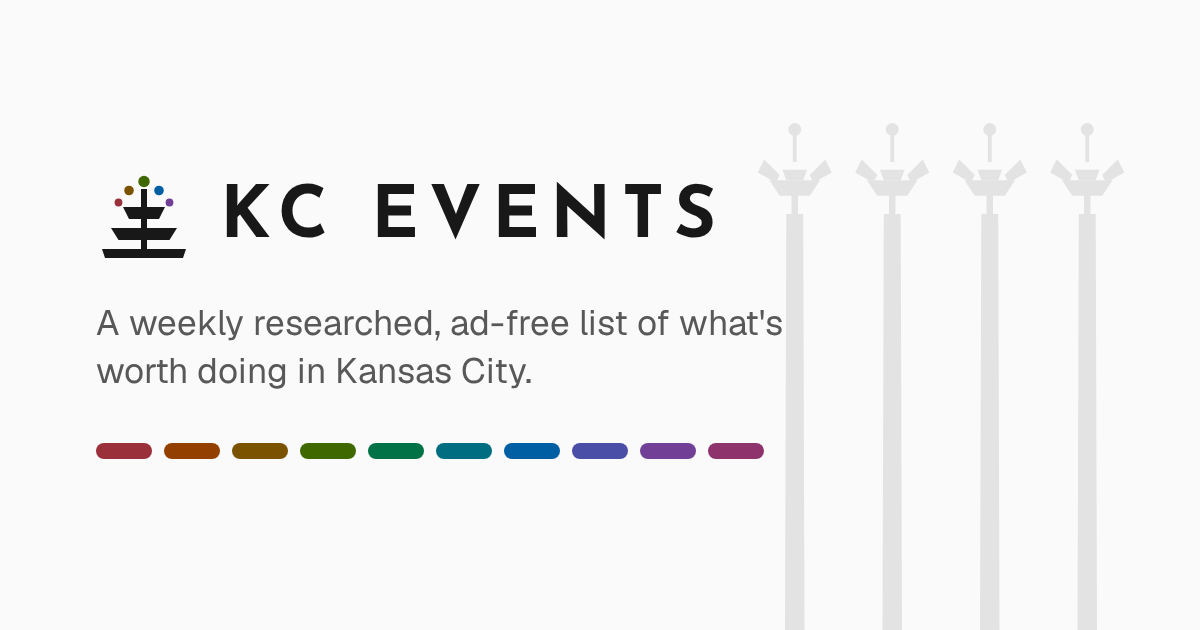
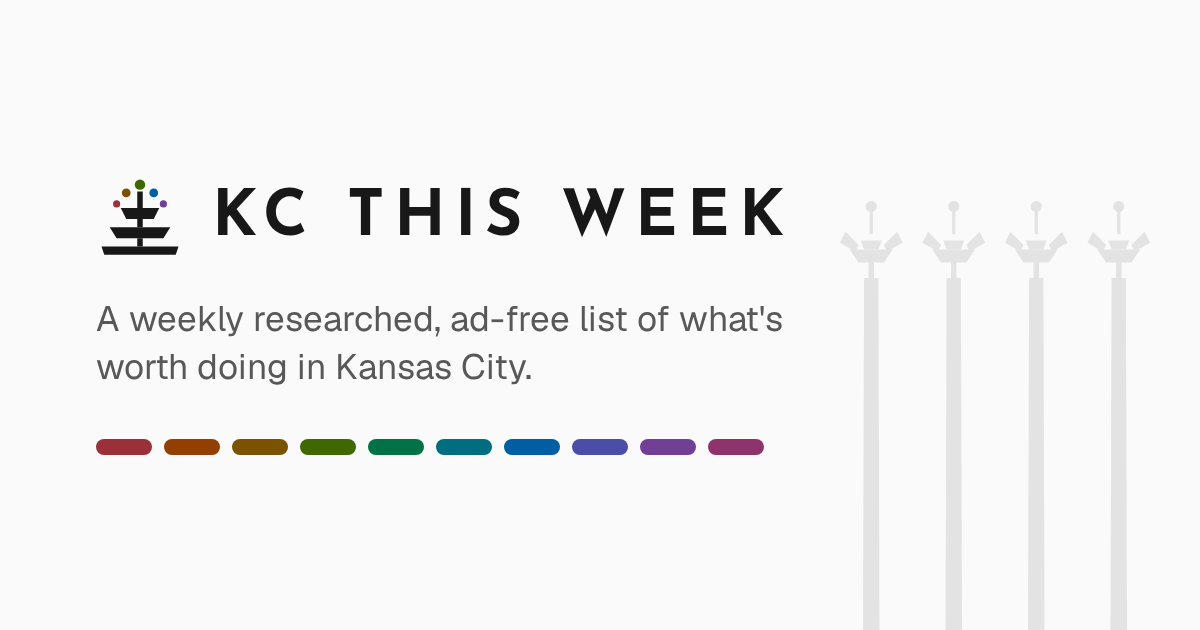
The site is KC This Week, at kcthisweek.com

Changed region(s): [[0.0925, 0.2714, 0.6475, 0.4222], [0.0617, 0.4825, 0.6475, 0.6333], [0.0617, 0.6937, 0.6475, 0.754]]

diff --git a/site/scripts/share-image.html b/site/scripts/share-image.html
@@ -3,7 +3,7 @@
 <html lang="en">
   <head>
     <meta charset="utf-8" />
-    <title>KC Events share image</title>
+    <title>KC This Week share image</title>
     <style>
       @font-face {
         font-family: "Geist Variable";
@@ -30,8 +30,8 @@
         -webkit-font-smoothing: antialiased;
       }
       /* The name as the header sets it: the fountain mark, then tracked capitals in the display face. */
-      h1 { margin: 0; display: flex; align-items: center; gap: 28px; font-family: "Josefin Sans", sans-serif; font-size: 72px; font-weight: 700; text-transform: uppercase; letter-spacing: 0.14em; line-height: 1; }
-      h1 svg { width: 96px; height: 96px; flex: none; }
+      h1 { margin: 0; display: flex; align-items: center; gap: 28px; font-family: "Josefin Sans", sans-serif; font-size: 64px; font-weight: 700; text-transform: uppercase; letter-spacing: 0.14em; line-height: 1; }
+      h1 svg { width: 88px; height: 88px; flex: none; }
       /* The drops in five of the kinds, as the header colours them. */
       h1 .drop-1 { fill: oklch(0.47 0.14 20); } h1 .drop-2 { fill: oklch(0.47 0.14 88); } h1 .drop-3 { fill: oklch(0.47 0.14 130); }
       h1 .drop-4 { fill: oklch(0.47 0.14 245); } h1 .drop-5 { fill: oklch(0.47 0.14 308); }
@@ -40,11 +40,11 @@
       .kinds span { width: 56px; height: 16px; border-radius: 8px; }
       p { margin: 32px 0 0; max-width: 20em; font-size: calc(var(--text-xl) * 1.6); line-height: 1.35; color: var(--fg-muted); }
       /* Bartle Hall's pylons, behind the text at the right, rising from the bottom edge. */
-      .skyline { position: absolute; right: 64px; bottom: 0; width: 390px; height: 520px; color: var(--rule); }
+      .skyline { position: absolute; right: 40px; bottom: 0; width: 330px; height: 440px; color: var(--rule); }
     </style>
   </head>
   <body>
-    <h1><span id="mark"></span>KC Events</h1>
+    <h1><span id="mark"></span>KC This Week</h1>
     <p id="tagline"></p>
     <div class="kinds" aria-hidden="true">
       <span style="background: oklch(0.47 0.14 20)"></span><span style="background: oklch(0.47 0.14 56)"></span>

diff --git a/site/test/explorer-export.test.ts b/site/test/explorer-export.test.ts
@@ -34,7 +34,7 @@ describe("export this view", () => {
     await fireEvent.click(screen.getByRole("button", { name: "Export this view" }));
     expect(downloadText).toHaveBeenCalledTimes(1);
     const [name, text, mime] = vi.mocked(downloadText).mock.calls[0]!;
-    expect(name).toBe("kc-events.ics");
+    expect(name).toBe("kc-this-week.ics");
     expect(mime).toBe("text/calendar");
     expect(text).toContain("SUMMARY:Friday jazz");
     expect(text).not.toContain("Trivia");

diff --git a/site/src/components/Explorer.svelte b/site/src/components/Explorer.svelte
@@ -100,7 +100,7 @@
 
   function exportView() {
     // new Date() is fine here: this is a component, not lib/ (the no-clock grep covers lib only).
-    downloadText("kc-events.ics", toIcs(exportable, { siteName: siteConfig.name, stamp: new Date().toISOString() }), "text/calendar");
+    downloadText("kc-this-week.ics", toIcs(exportable, { siteName: siteConfig.name, stamp: new Date().toISOString() }), "text/calendar");
   }
 </script>
 

diff --git a/site/src/site.config.ts b/site/src/site.config.ts
@@ -4,7 +4,7 @@
  * The canonical origin is build-only, in src/build/origin.ts.
  */
 export const siteConfig = {
-  name: "KC Events",
+  name: "KC This Week",
   tagline: "A weekly researched, ad-free list of what's worth doing in Kansas City.",
   repoUrl: "https://github.com/WrongerSandwich/kc-events",
   /** Days after the last successful run before every page shows the staleness banner. */

diff --git a/docs/superpowers/specs/2026-10-04-public-site-design.md b/docs/superpowers/specs/2026-10-04-public-site-design.md
@@ -29,7 +29,7 @@ Vocabulary is `CONTEXT.md`'s: *don't-miss list*, *always there*, *horizon*, *met
 - **No event images.** Legal exposure and the thing that makes aggregators look like aggregators. The visual identity comes from type and color. The one image the site has is a single site-wide typographic share card (section 7), generated once, so links unfurl without looking broken.
 - **No venue pages, no kind landing pages.** Candidates for v1.1; the explorer's URL state covers both cases for now.
 - **No daily rebuild.** The site is rebuilt when the weekly run commits; client-side logic keeps the day-dependent parts correct between builds (sections 4, 7, 8). A deploy hook on a daily cron is a cheap follow-up if the no-JS HTML going a week stale ever matters.
-- **No naming decision.** The site name is a single config value and ships as "KC Events" at a Vercel subdomain; a name and domain are a separate call.
+- **Naming.** The site name is a single config value. It shipped as "KC Events" at a Vercel subdomain; on 2026-10-07 it became "KC This Week" at kcthisweek.com (#61).
 
 ## 3. Architecture
 
@@ -65,7 +65,7 @@ data/events.json  (committed by the weekly run)
 
 **Build fails loudly, deploy keeps the last good site.** Any parse failure, a schema version mismatch, a dataset with `lastSuccessfulRun: null`, an id collision among active events, or a projected payload over 400 KB raw throws during `astro build`. Vercel then keeps the previous deployment live. The weekly workflow already commits nothing on a failed run, so the two failure modes compose: a bad run leaves the old data, a bad build leaves the old site.
 
-**Production.** The site is live at https://kc-events-lime.vercel.app (Vercel project `kc-events`, first deployed 2026-10-05 from 05345fa). Vercel Authentication is off so the production URL is public, and the monorepo "skip when no changes" switch is off so the ignored build step below is the only skip rule.
+**Production.** The site is live at https://kcthisweek.com (Vercel project `kc-events`, first deployed 2026-10-05 from 05345fa at https://kc-events-lime.vercel.app, which still serves; the custom domain was attached 2026-10-07). Vercel Authentication is off so the production URL is public, and the monorepo "skip when no changes" switch is off so the ignored build step below is the only skip rule.
 
 **Deploy trigger.** Vercel project settings: root directory `site`, framework Astro, "Include source files outside of the Root Directory" on, and the automatic "skip deployment when unaffected" switch for monorepos **off**: Vercel's own change detection follows declared workspace dependencies, and the site reaches the dataset by relative path, so the one commit that matters (the weekly `data/events.json` change) could be classified as unrelated and skipped, which would silently freeze the site. Instead an explicit *ignored build step* command, versioned as `ignoreCommand` in `site/vercel.json` so the dashboard needs no custom command (it uses the previous deployed SHA when Vercel provides one and falls back to `HEAD^`), runs inside `site/` and skips the build on exit 0, builds on exit 1:
 
@@ -77,7 +77,7 @@ so a run-report-only or docs-only commit does not rebuild. Ticket 1's acceptance
 
 A small `site-ci.yml` workflow runs `pnpm -r typecheck`, `pnpm --filter kc-events-site build`, a separate `pnpm --filter kc-events-site size` step, `pnpm -r test` (after the build, because the built-output tests read `dist/`), and the end-to-end suite (built into its own `dist-e2e/`) on pull requests and on pushes to `main`. Note what it guards: GitHub does not trigger workflows from pushes made with the default `GITHUB_TOKEN`, so the weekly research commit runs no CI; on that commit the build assertions run only inside Vercel's build, which is sufficient because that build is the one that would publish bad data.
 
-**Configuration.** `site/src/site.config.ts` holds the site-level values: `name` ("KC Events"), `tagline`, `repoUrl` (for the corrections link), `staleAfterDays` (9), and nothing about slugs; islands import it, so it reads no environment. The canonical origin for sitemap, JSON-LD, and share tags is build-only, in `site/src/build/origin.ts`: `SITE_ORIGIN` once a fixed production domain exists, falling back to `https://${VERCEL_PROJECT_PRODUCTION_URL}` so previews are not canonical. Slugs: kind and region slugs are derived by one `slugify` function from the config's names, with a test pinning them distinct (section 6). The time zone is `timezone` from `research.config.yaml`, not duplicated. Two environment overrides exist for reproducible builds: `SITE_TODAY=YYYY-MM-DD` fixes the build's date and `SITE_DATASET=<path>` points the build at a fixture dataset; both are used by the end-to-end suite and otherwise unset.
+**Configuration.** `site/src/site.config.ts` holds the site-level values: `name` ("KC This Week"), `tagline`, `repoUrl` (for the corrections link), `staleAfterDays` (9), and nothing about slugs; islands import it, so it reads no environment. The canonical origin for sitemap, JSON-LD, and share tags is build-only, in `site/src/build/origin.ts`: `SITE_ORIGIN` once a fixed production domain exists, falling back to `https://${VERCEL_PROJECT_PRODUCTION_URL}` so previews are not canonical. Slugs: kind and region slugs are derived by one `slugify` function from the config's names, with a test pinning them distinct (section 6). The time zone is `timezone` from `research.config.yaml`, not duplicated. Two environment overrides exist for reproducible builds: `SITE_TODAY=YYYY-MM-DD` fixes the build's date and `SITE_DATASET=<path>` points the build at a fixture dataset; both are used by the end-to-end suite and otherwise unset.
 
 ## 4. Data contract
 
@@ -274,11 +274,11 @@ The site has no imagery, so it has to be beautiful as a page of text. The direct
 - `/llms.txt`: what the site is, how it is made, where the dataset is, the URL patterns, and the one-paragraph cite-or-drop rule.
 - `/events.json`: the published dataset, served with `Cache-Control: public, max-age=3600` and `Access-Control-Allow-Origin: *` from `site/vercel.json`, so browser-side readers can fetch the contract.
 - `schema.org/Event` JSON-LD on event pages; `sitemap.xml` listing every page from the canonical origin; `robots.txt` allowing everything.
-- No analytics, no cookies, no third-party requests. The methods page says so.
+- No cookies, no third-party requests. The one measurement is Vercel Web Analytics (added 2026-10-07 at Evan's call): cookieless page views, its script served from the site's own origin. The about page says so.
 
 ## 11. The methods page
 
-`/about`, in plain language: what the site is for; how it is made (a weekly research job that reads venue and organizer pages directly, extracts dates and venues only from those pages, and holds back anything it cannot cite); what don't-miss means and that it is an editorial call made by a model under written rules; that nothing is tracked; where the dataset is and that it is free to reuse with attribution; and how to report a wrong listing (a link to a prefilled GitHub issue). It links the repo.
+`/about`, in plain language: what the site is for; how it is made (a weekly research job that reads venue and organizer pages directly, extracts dates and venues only from those pages, and holds back anything it cannot cite); what don't-miss means and that it is an editorial call made by a model under written rules; that visits are counted only by cookieless first-party analytics; where the dataset is and that it is free to reuse with attribution; and how to report a wrong listing (a link to a prefilled GitHub issue). It links the repo.
 
 ## 12. Testing
 

diff --git a/CONTEXT.md b/CONTEXT.md
@@ -1,4 +1,4 @@
-# KC Events
+# KC This Week
 
 A weekly-researched, ad-free picture of what is worth doing in Kansas City, built around one structural idea: which events are don't-miss because they won't come around again, versus which are always there.
 

diff --git a/AGENTS.md b/AGENTS.md
@@ -1,4 +1,4 @@
-# KC Events
+# KC This Week
 
 A weekly researched, ad-free list of what's worth doing in Kansas City. The idea, decisions, and first milestone are in `PROPOSAL.md`; read it before planning any work.
 
